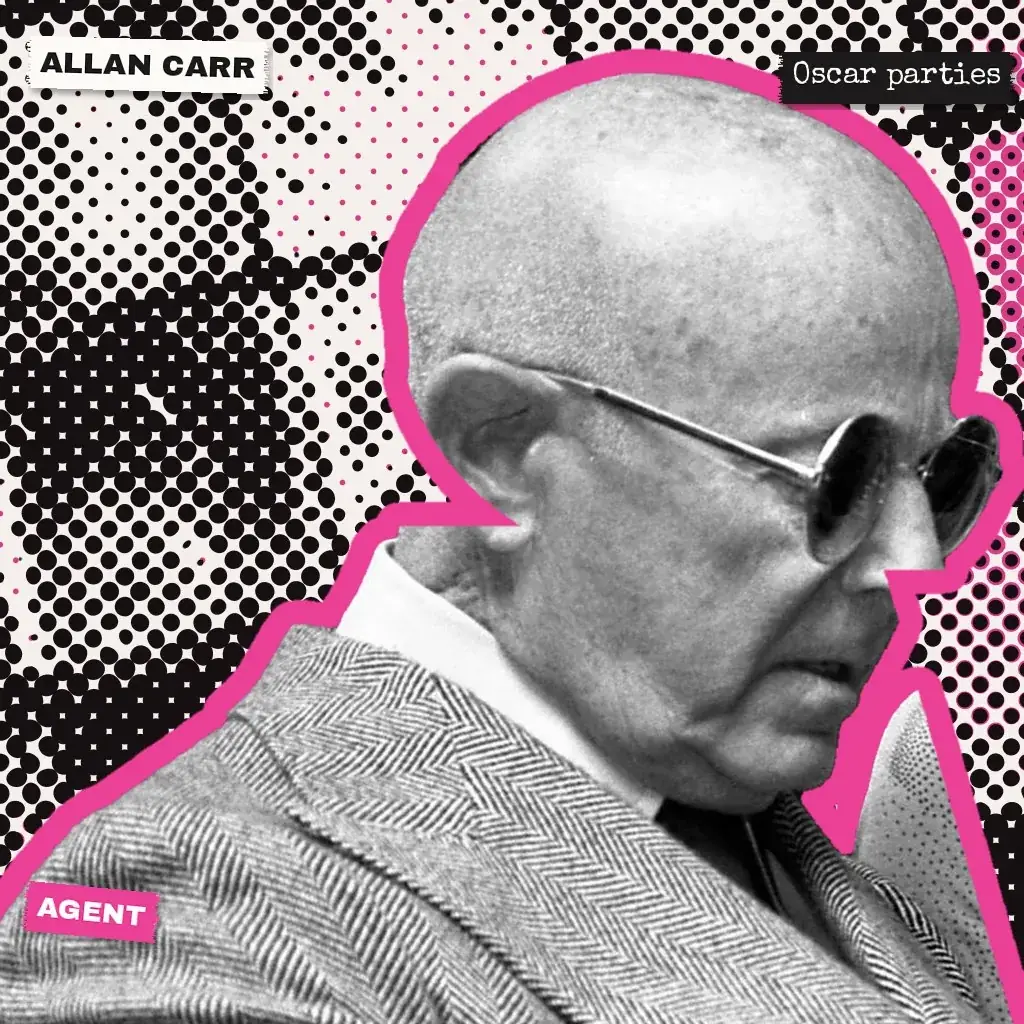
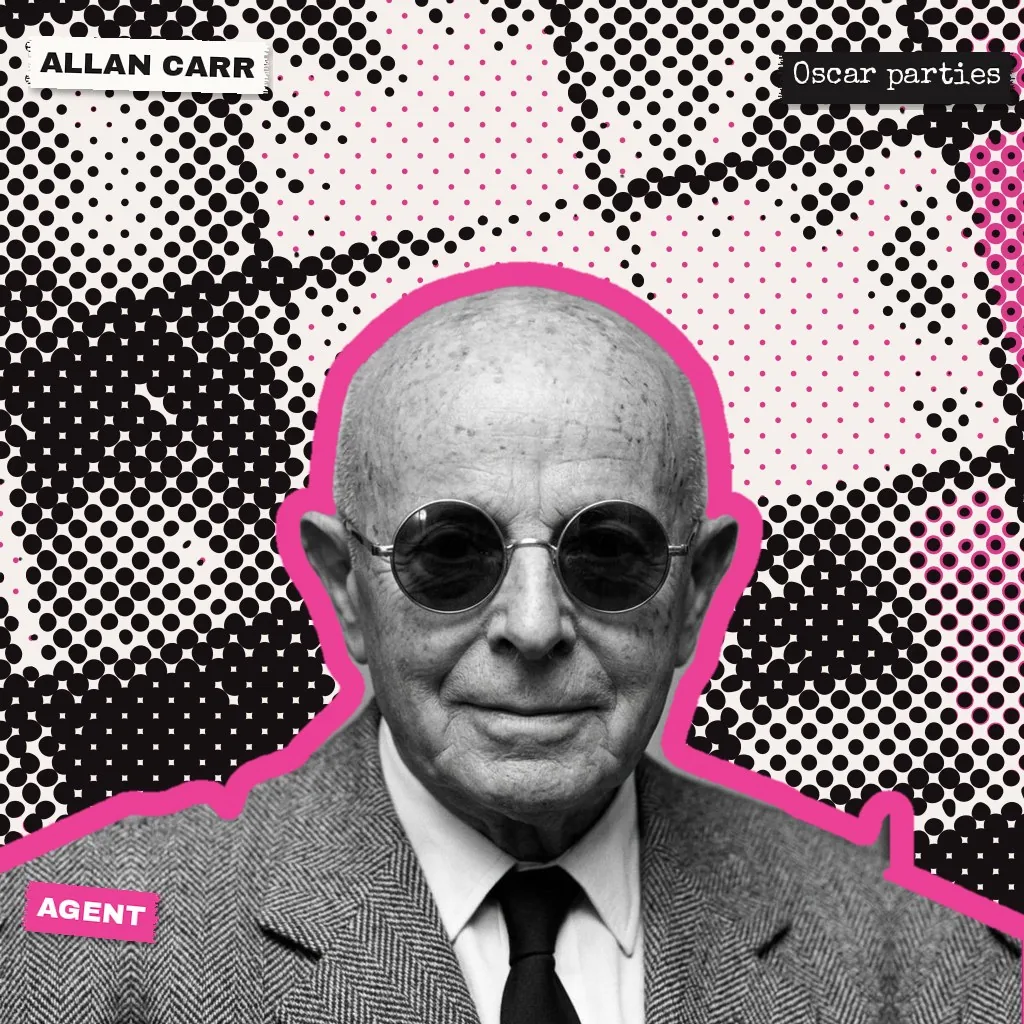
Gemini retest: Swifty Lazar gets a realistic Gemini polaroid
Claude-Session: https://claude.ai/code/session_0192FespPV8cpdph9BcB77fa

diff --git a/src/data/person-portraits.ts b/src/data/person-portraits.ts
@@ -895,7 +895,7 @@ export const PERSON_PORTRAITS: Record<string, PersonPortrait> = {
   "ann-margret": { photo: annMargretPhoto, polaroid: annMargretPolaroid, focus: "28%", credit: "Portrait after a studio publicity photo, 1968 (public domain), in our photocopy style" },
   "anne-heche": { photo: anneHechePhoto, polaroid: anneHechePolaroid, focus: "28%", credit: "Portrait after a photo by Mingle Media TV, 2014 (CC BY 2.0), in our photocopy style" },
   "anderson-cooper": { photo: andersonCooperPhoto, polaroid: andersonCooperPolaroid, focus: "28%", credit: "Portrait after a photo by Gage Skidmore, 2018 (CC BY-SA 2.0; our version is CC BY-SA 2.0 too), in our photocopy style" },
-  "swifty-lazar": { photo: swiftyLazarPhoto, polaroid: swiftyLazarPolaroid, focus: "28%", credit: "Portrait after a photo by Kathleen Ballard, Los Angeles Times, 1975 (CC BY 4.0), in our photocopy style" },
+  "swifty-lazar": { photo: swiftyLazarPhoto, polaroid: swiftyLazarPolaroid, focus: "30%", credit: "Illustration made with Gemini, not a photo" },
   "steve-aoki": { photo: steveAokiPhoto, polaroid: steveAokiPolaroid, focus: "28%", credit: "Portrait after a photo by Gage Skidmore, 2026 (CC BY-SA 3.0; our version is CC BY-SA 3.0 too), in our photocopy style" },
   "afrojack": { photo: afrojackPhoto, polaroid: afrojackPolaroid, focus: "28%", credit: "Portrait after a photo by Michael Grech, 2011 (CC BY 2.0), in our photocopy style" },
   "scott-wittman": { photo: scottWittmanPhoto, polaroid: scottWittmanPolaroid, focus: "28%", credit: "Portrait after a photo by Philip Romano, 2026 (CC BY-SA 4.0; our version is CC BY-SA 4.0 too), in our photocopy style" },
